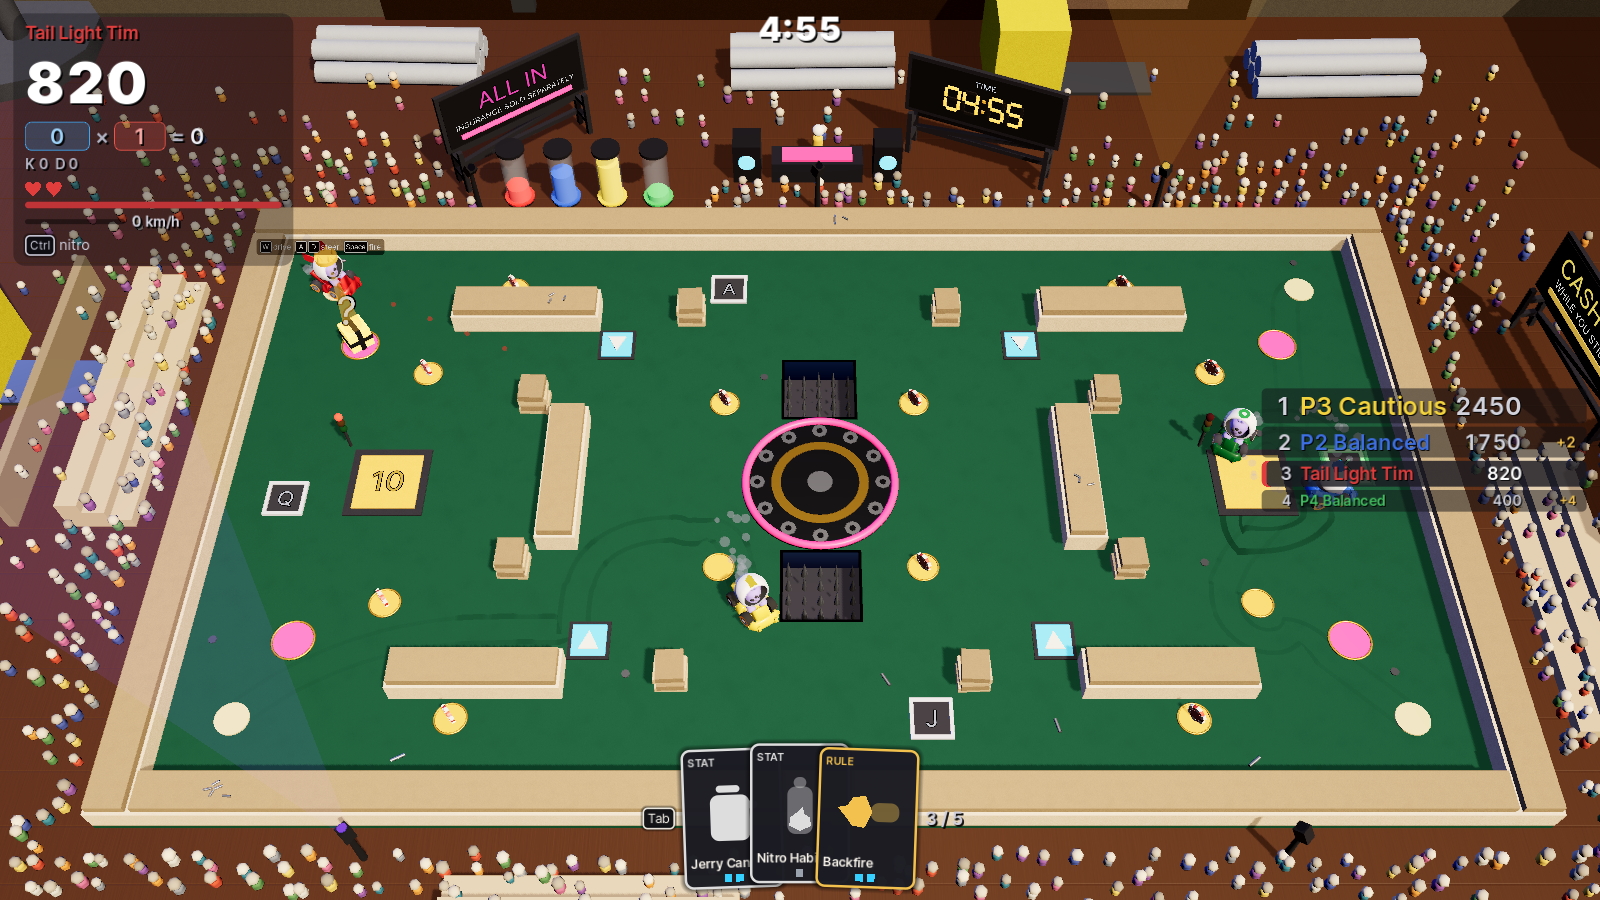
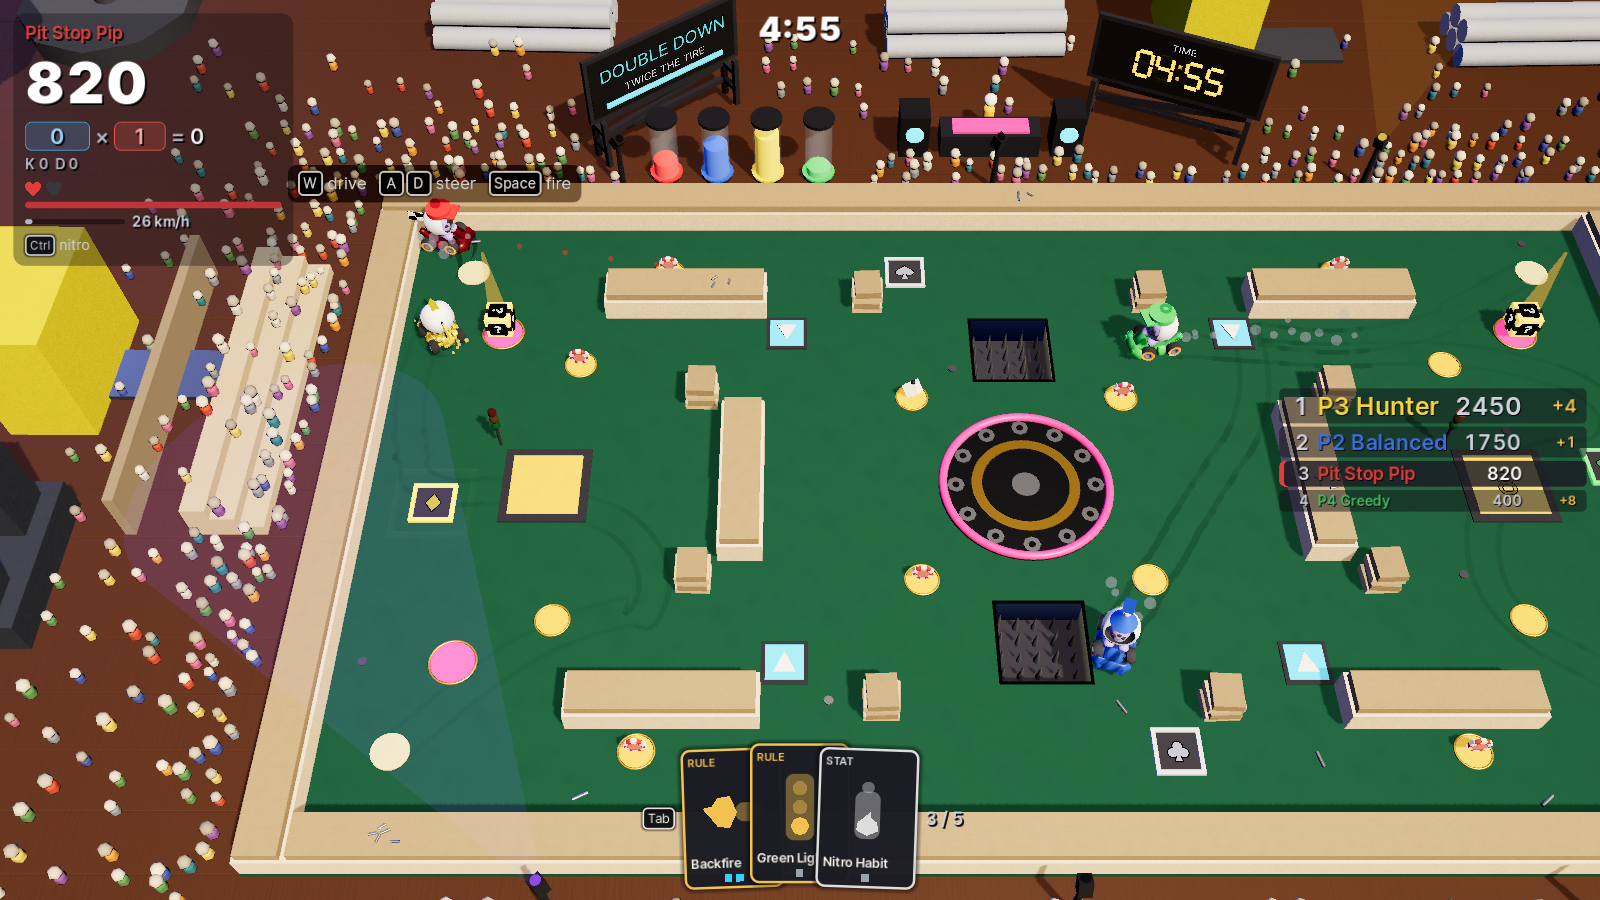
Retake the README screenshots, with Crossfire XL in place of Crossfire
The rooms and the phone are taken again as the game looks now. Crossfire,
which the phone screenshot already shows, gives way to Crossfire XL, the
whole of the bigger arena held in view, so the README shows an XL map as
well as all three rooms. The shots are taken at a fixed 60 fps a few
seconds into the match, before anybody has been shot and the joker pick
is up over the table.

Claude-Session: https://claude.ai/code/session_01VMFaG88qPJdpAQCvaJMppX

diff --git a/README.md b/README.md
@@ -9,7 +9,7 @@ Made with Godot 4.7 and GDScript. `GAME.md` holds the design, `PLAN.md` the
 implementation plan with the status of every milestone, and `CHANGELOG.md` what
 has changed in each release.
 
-Three arenas, three rooms to play them in.
+Three arenas, three rooms to play them in, and an XL version of each with room to spare.
 
 ![A green felt arena on a workbench, lit by a lamp over it, with karts driving between low blocks and a machined steel plate set into the felt in the middle of it. Bundles of rod stock and stacks of planks lie about the bench around the table, and a crowd of onlookers rings the arena, packed at the rail and thinning outward. Glass tanks filled to different levels, a DJ booth, two lit hoardings and a board keeping the match clock stand at the far edge; the player's score sits on a dark card in the top left, the standings run down the right and a hand of joker cards along the bottom of the screen](docs/lucky-crossing.png)
 
@@ -19,9 +19,9 @@ Three arenas, three rooms to play them in.
 
 *The Vault, After Hours.*
 
-![A concrete yard in late afternoon light, with an arena marked out on it and karts driving between pale blocks. A disc in the middle is bordered in black and yellow hazard stripes, hazard tape runs across the floor at the back, and the crowd stands on stepped tribunes behind a low fence, with lit hoardings and the match clock along the far edge](docs/crossfire.png)
+![A concrete yard in late afternoon light seen from high above, with a far bigger arena marked out on it than the usual map: two long stepped walls of pale blocks curve toward each other across it, a pit edged in black and yellow hazard stripes sits in each of their bends, and a disc bordered in the same stripes lies in the open middle, with karts small against all that floor. The crowd fills stepped tribunes on every side, with a truck, stacked drums and a forklift beyond them, and lit hoardings and the match clock along the far edge](docs/crossfire-xl.png)
 
-*Crossfire, in The Yard.*
+*Crossfire XL, in The Yard: the same room around a bigger arena.*
 
 ![A wide phone screen showing Crossfire in The Yard from above, the whole arena in view, with the touch controls drawn over it: a round stick in the lower left for the left thumb, and on the right a round Fire button beside a tall slider cut into Nitro, Gas, Reverse and Drift. The menu button sits in the top right corner with the standings under it, the player's score card is in the top left, and their hand of joker cards is along the bottom edge](docs/mobile.png)
 
